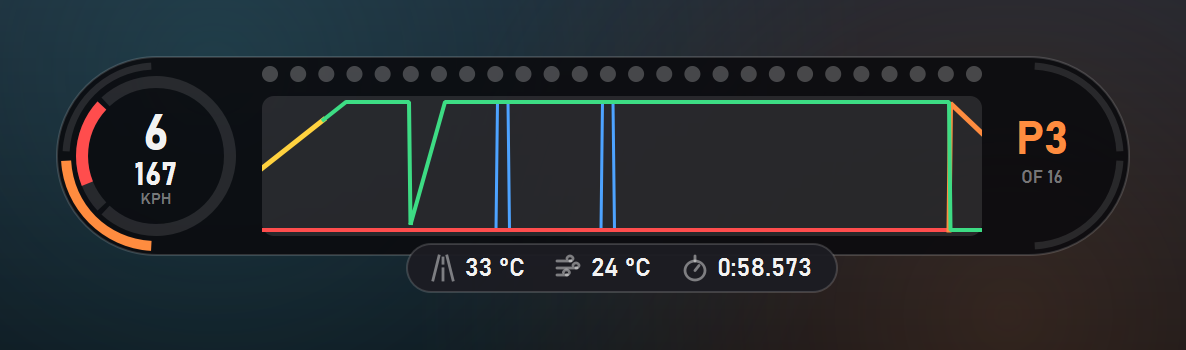
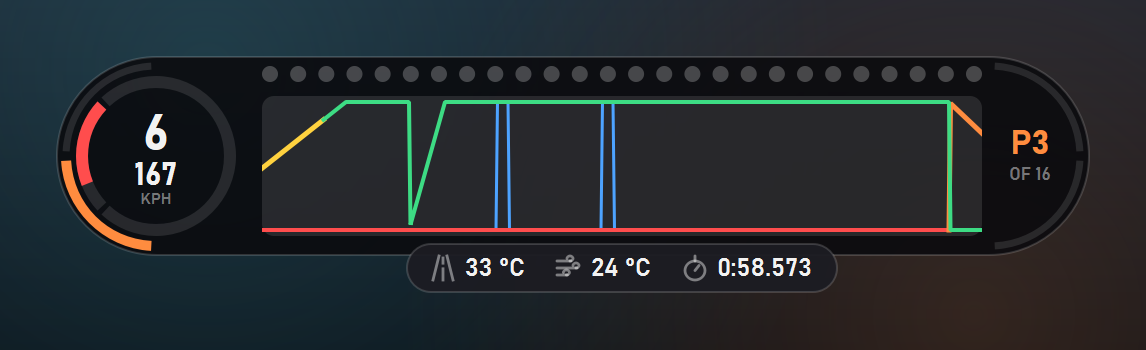
Pull the pill's right end in next to the trace
The right end's centre now sits 4 px past the trace, so its TC/ABS arcs start right beside the shift dots and trace box; the position (13 pt, OF n 6.5 pt) fits inside that half circle. The HUD is now 517 px wide (was 537).

diff --git a/ace_overlay/overlay.py b/ace_overlay/overlay.py
@@ -38,8 +38,9 @@ CX0 = RING_CX + RING_R + 16  # start of the middle section
 DOT_Y, DOT_D = 9, 8  # shift-light row centre (close to the top edge) and dot diameter
 TRACE_X, TRACE_Y, TRACE_W = CX0, 20, 360  # the time window is Config.trace_seconds
 TRACE_H = PH - CHIP_OVERLAP - 4 - TRACE_Y  # down to just above the chip
-POS_X, POS_W = TRACE_X + TRACE_W + 8, 44
-W = POS_X + POS_W + R - 28  # the position sits partly inside the right end's curve
+RIGHT_CX = TRACE_X + TRACE_W + 4  # right end's centre: its arcs start right next to the trace
+W = RIGHT_CX + R
+POS_X, POS_W = RIGHT_CX + 3, 34  # the position fits inside the right end's half circle
 CHIP_CX = TRACE_X + TRACE_W / 2  # chip centred under the trace
 
 SHIFT_LEDS = 26  # thresholds and colours come from Config
@@ -431,12 +432,12 @@ class InputsOverlay(OverlayWindow):
         g = self.graphics
         pos = g.current_pos if g is not None else 0
         p.setPen(ORANGE if pos else DIM)
-        p.setFont(font(17, QFont.Bold))
-        p.drawText(QRectF(POS_X, R - 22, POS_W, 28), Qt.AlignCenter, f"P{pos}" if pos else "P–")
+        p.setFont(font(13, QFont.Bold))
+        p.drawText(QRectF(POS_X, R - 17, POS_W, 22), Qt.AlignCenter, f"P{pos}" if pos else "P–")
         if pos and g.total_drivers:
             p.setPen(DIM)
-            p.setFont(font(7))
-            p.drawText(QRectF(POS_X, R + 5, POS_W, 12), Qt.AlignCenter, f"OF {g.total_drivers}")
+            p.setFont(font(6.5))
+            p.drawText(QRectF(POS_X, R + 4, POS_W, 11), Qt.AlignCenter, f"OF {g.total_drivers}")
 
     def draw_chip(self, p, f):
         """Track temperature · air temperature · current lap, in a chip hanging below the pill."""
